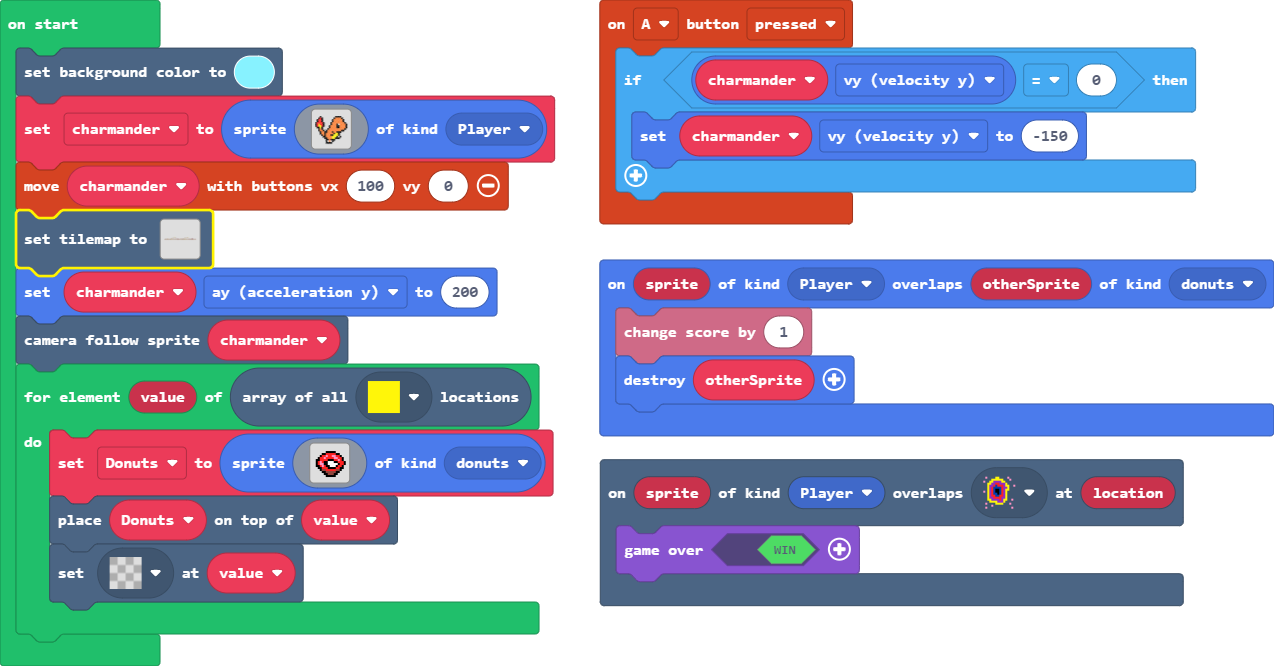
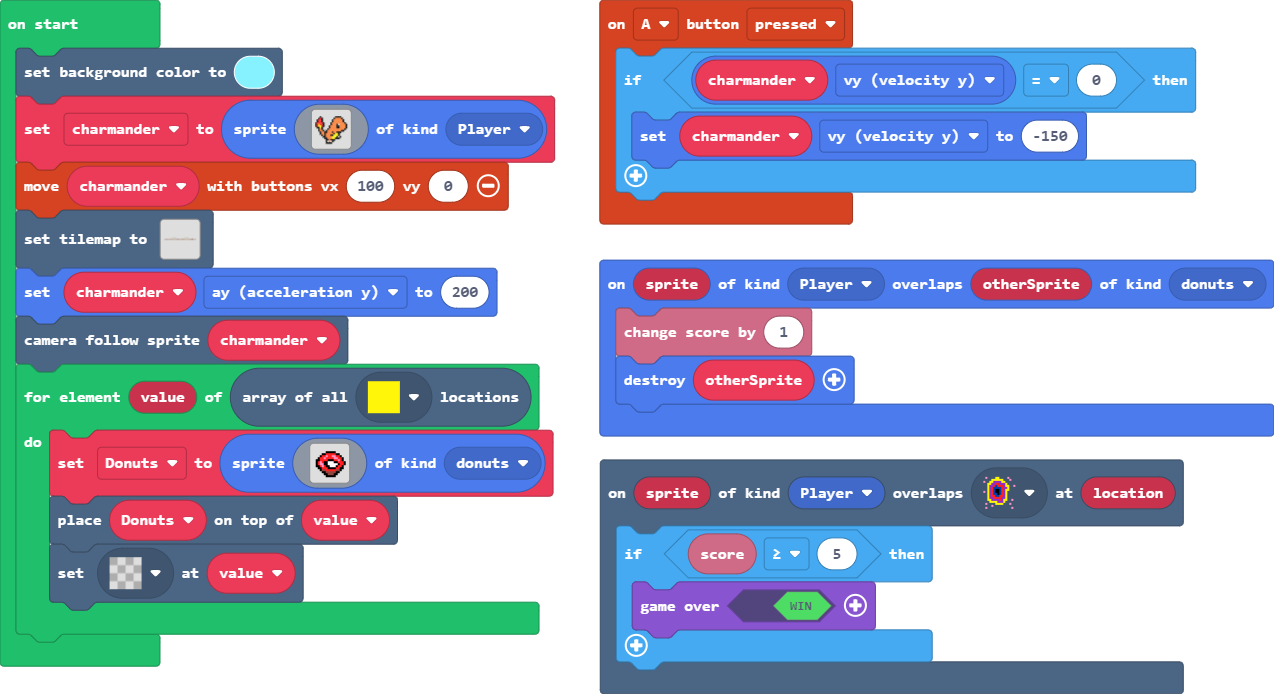
Add conditional win

diff --git a/main.ts b/main.ts
@@ -11,7 +11,9 @@ sprites.onOverlap(SpriteKind.Player, SpriteKind.donuts, function (sprite, otherS
     otherSprite.destroy()
 })
 scene.onOverlapTile(SpriteKind.Player, assets.tile`myTile2`, function (sprite, location) {
-    game.over(true)
+    if (info.score() >= 5) {
+        game.over(true)
+    }
 })
 let Donuts: Sprite = null
 let charmander: Sprite = null
